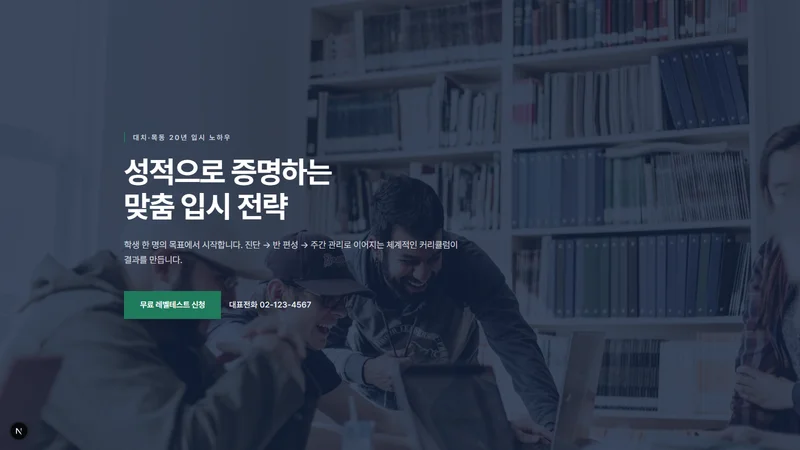
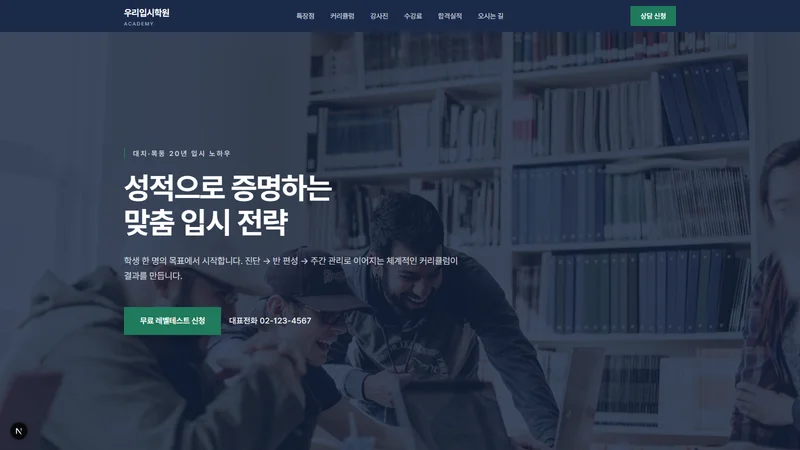
feat(template): academy-default 에 sticky 네비게이션 바 추가 (#109)
랜딩 페이지 기본인 상단 nav 가 빠져 있어 추가. componentKey 'nav'
(deriveNav 로 navItems 주입되는 renderSingleSite 규약) 클라이언트 컴포넌트.

- Navigation.tsx + Navigation.meta.ts, library 에 nav 로 등록(첫 섹션)
- 콘텐츠 6개 섹션 nav.visible=true (특장점/커리큘럼/강사진/수강료/합격실적/오시는 길)
  → 앵커 메뉴로 노출. nav/hero/contact/footer 는 nav.visible=false
- hero min-h 를 calc(100dvh-4rem) 로 조정(4rem sticky nav 감안, gotcha 준수)
- 깨진 앵커 교정: hero/nav CTA #contact → #section-contact-001 (실제 래퍼 id)

verify 게이트 7단계 통과(schema-jsx 10파일), 썸네일 재캡처(네비 포함).

diff --git a/src/templates/academy/default/template.ts b/src/templates/academy/default/template.ts
@@ -14,6 +14,18 @@ const preset: TemplatePreset = {
     },
     "sections": [
       {
+        "id": "nav-001",
+        "type": "nav",
+        "visible": true,
+        "nav": { "visible": false, "label": "네비게이션" },
+        "fields": {
+          "brandName": { "value": "우리입시학원", "type": "text", "label": "학원 이름", "editable": true },
+          "brandSubtext": { "value": "ACADEMY", "type": "text", "label": "보조 텍스트", "editable": true },
+          "ctaText": { "value": "상담 신청", "type": "text", "label": "CTA 문구", "editable": true },
+          "ctaUrl": { "value": "#section-contact-001", "type": "url", "label": "CTA 링크", "editable": true }
+        }
+      },
+      {
         "id": "hero-001",
         "type": "hero",
         "visible": true,
@@ -23,7 +35,7 @@ const preset: TemplatePreset = {
           "title": { "value": "성적으로 증명하는\n맞춤 입시 전략", "type": "textarea", "label": "메인 슬로건", "editable": true },
           "subtitle": { "value": "학생 한 명의 목표에서 시작합니다. 진단 → 반 편성 → 주간 관리로 이어지는 체계적인 커리큘럼이 결과를 만듭니다.", "type": "textarea", "label": "보조 설명", "editable": true },
           "ctaText": { "value": "무료 레벨테스트 신청", "type": "text", "label": "상담 버튼 문구", "editable": true },
-          "ctaUrl": { "value": "#contact", "type": "url", "label": "상담 버튼 링크", "editable": true },
+          "ctaUrl": { "value": "#section-contact-001", "type": "url", "label": "상담 버튼 링크", "editable": true },
           "phoneText": { "value": "대표전화 02-123-4567", "type": "text", "label": "전화 안내 문구", "editable": true },
           "backgroundImage": { "value": "https://images.unsplash.com/photo-1523240795612-9a054b0db644?auto=format&fit=crop&w=1600&q=80", "type": "image", "label": "배경 이미지", "editable": true }
         }
@@ -32,7 +44,7 @@ const preset: TemplatePreset = {
         "id": "features-001",
         "type": "features",
         "visible": true,
-        "nav": { "visible": false, "label": "특장점" },
+        "nav": { "visible": true, "label": "특장점" },
         "fields": {
           "eyebrow": { "value": "WHY US", "type": "text", "label": "상단 라벨", "editable": true },
           "title": { "value": "우리 학원만의 강점", "type": "text", "label": "섹션 제목", "editable": true },
@@ -52,7 +64,7 @@ const preset: TemplatePreset = {
         "id": "curriculum-001",
         "type": "curriculum",
         "visible": true,
-        "nav": { "visible": false, "label": "커리큘럼" },
+        "nav": { "visible": true, "label": "커리큘럼" },
         "fields": {
           "eyebrow": { "value": "CURRICULUM", "type": "text", "label": "상단 라벨", "editable": true },
           "title": { "value": "커리큘럼 · 반 편성", "type": "text", "label": "섹션 제목", "editable": true },
@@ -72,7 +84,7 @@ const preset: TemplatePreset = {
         "id": "teachers-001",
         "type": "teachers",
         "visible": true,
-        "nav": { "visible": false, "label": "강사진" },
+        "nav": { "visible": true, "label": "강사진" },
         "fields": {
           "eyebrow": { "value": "TEACHERS", "type": "text", "label": "상단 라벨", "editable": true },
           "title": { "value": "검증된 강사진", "type": "text", "label": "섹션 제목", "editable": true },
@@ -92,7 +104,7 @@ const preset: TemplatePreset = {
         "id": "tuition-001",
         "type": "tuition",
         "visible": true,
-        "nav": { "visible": false, "label": "수강료" },
+        "nav": { "visible": true, "label": "수강료" },
         "fields": {
           "eyebrow": { "value": "TUITION", "type": "text", "label": "상단 라벨", "editable": true },
           "title": { "value": "시간표 · 수강료", "type": "text", "label": "섹션 제목", "editable": true },
@@ -112,7 +124,7 @@ const preset: TemplatePreset = {
         "id": "results-001",
         "type": "results",
         "visible": true,
-        "nav": { "visible": false, "label": "합격실적" },
+        "nav": { "visible": true, "label": "합격실적" },
         "fields": {
           "eyebrow": { "value": "RESULTS", "type": "text", "label": "상단 라벨", "editable": true },
           "title": { "value": "숫자로 보는 합격 실적", "type": "text", "label": "섹션 제목", "editable": true },
@@ -145,7 +157,7 @@ const preset: TemplatePreset = {
         "id": "location-001",
         "type": "location",
         "visible": true,
-        "nav": { "visible": false, "label": "오시는길" },
+        "nav": { "visible": true, "label": "오시는 길" },
         "fields": {
           "eyebrow": { "value": "LOCATION", "type": "text", "label": "상단 라벨", "editable": true },
           "title": { "value": "오시는 길", "type": "text", "label": "섹션 제목", "editable": true },

diff --git a/src/templates/academy/default/library/Navigation.tsx b/src/templates/academy/default/library/Navigation.tsx
@@ -1,0 +1,114 @@
+'use client';
+
+import { useState, useEffect } from 'react';
+import { TemplateSectionProps, SectionComponent, NavSectionProps } from '../../../types';
+import { getFieldValue } from '@/domain/entities/template.entity';
+
+/**
+ * Sticky top nav. `navItems` is projected by the renderer (deriveNav) from the
+ * sections whose `nav.visible` is true — this component just renders the anchors.
+ */
+const Navigation: SectionComponent = function Navigation(props: TemplateSectionProps) {
+  const { section } = props;
+  const { navItems } = props as NavSectionProps;
+  const { fields } = section;
+  const brandName = getFieldValue(fields, 'brandName') || '';
+  const brandSubtext = getFieldValue(fields, 'brandSubtext') || '';
+  const ctaText = getFieldValue(fields, 'ctaText') || '';
+  const ctaUrl = getFieldValue(fields, 'ctaUrl') || '#';
+
+  const [scrolled, setScrolled] = useState(false);
+  const [mobOpen, setMobOpen] = useState(false);
+
+  useEffect(() => {
+    const onScroll = () => setScrolled(window.scrollY > 24);
+    window.addEventListener('scroll', onScroll, { passive: true });
+    return () => window.removeEventListener('scroll', onScroll);
+  }, []);
+
+  return (
+    <nav
+      className={`sticky top-0 z-50 h-16 border-b bg-[var(--color-primary)] transition-shadow ${
+        scrolled ? 'border-[var(--color-on-dark)]/15 shadow-lg' : 'border-transparent'
+      }`}
+    >
+      <div className="mx-auto flex h-full max-w-6xl items-center justify-between px-6">
+        {/* Brand */}
+        <a href="#" className="flex flex-col leading-none no-underline">
+          <span className="text-lg font-bold tracking-tight text-[var(--color-on-primary)]">{brandName}</span>
+          {brandSubtext && (
+            <span className="mt-0.5 text-[10px] font-medium tracking-[0.18em] text-[var(--color-on-dark)]/60">
+              {brandSubtext}
+            </span>
+          )}
+        </a>
+
+        {/* Desktop links */}
+        <div className="hidden items-center gap-8 lg:flex">
+          {navItems.map((item, i) => (
+            <a
+              key={i}
+              href={item.href}
+              className="text-sm font-medium text-[var(--color-on-dark)]/80 no-underline transition-colors hover:text-[var(--color-on-primary)]"
+            >
+              {item.label}
+            </a>
+          ))}
+        </div>
+
+        {/* CTA + mobile toggle */}
+        <div className="flex items-center gap-3">
+          {ctaText && (
+            <a
+              href={ctaUrl}
+              className="hidden bg-[var(--color-secondary)] px-5 py-2.5 text-sm font-semibold text-[var(--color-on-primary)] no-underline transition-all hover:brightness-110 sm:inline-flex"
+            >
+              {ctaText}
+            </a>
+          )}
+          <button
+            type="button"
+            aria-label="메뉴"
+            className="cursor-pointer border-0 bg-transparent p-2 text-[var(--color-on-primary)] lg:hidden"
+            onClick={() => setMobOpen(!mobOpen)}
+          >
+            <span className="block h-0.5 w-5 bg-current" />
+            <span className="mt-1 block h-0.5 w-5 bg-current" />
+            <span className="mt-1 block h-0.5 w-5 bg-current" />
+          </button>
+        </div>
+      </div>
+
+      {/* Mobile menu */}
+      <div
+        className={`overflow-hidden bg-[var(--color-primary)] transition-all duration-300 lg:hidden ${
+          mobOpen ? 'max-h-96 border-t border-[var(--color-on-dark)]/15' : 'max-h-0'
+        }`}
+      >
+        <div className="space-y-1 px-6 py-4">
+          {navItems.map((item, i) => (
+            <a
+              key={i}
+              href={item.href}
+              className="block py-2 text-[15px] font-medium text-[var(--color-on-dark)]/85 no-underline"
+              onClick={() => setMobOpen(false)}
+            >
+              {item.label}
+            </a>
+          ))}
+          {ctaText && (
+            <a
+              href={ctaUrl}
+              onClick={() => setMobOpen(false)}
+              className="mt-2 block bg-[var(--color-secondary)] px-5 py-3 text-center text-sm font-semibold text-[var(--color-on-primary)] no-underline"
+            >
+              {ctaText}
+            </a>
+          )}
+        </div>
+      </div>
+    </nav>
+  );
+};
+
+export default Navigation;

diff --git a/src/templates/academy/default/library/index.ts b/src/templates/academy/default/library/index.ts
@@ -1,4 +1,6 @@
 import { TemplateLibrary, libEntry } from '../../../types';
+import Navigation from './Navigation';
+import { navigationMeta } from './Navigation.meta';
 import Hero from './Hero';
 import Features from './Features';
 import Curriculum from './Curriculum';
@@ -11,6 +13,7 @@ import Location from './Location';
 import Footer from './Footer';
 
 export const academyDefaultLibrary: TemplateLibrary = {
+  nav: libEntry(Navigation, navigationMeta),
   hero: libEntry(Hero),
   features: libEntry(Features),
   curriculum: libEntry(Curriculum),

diff --git a/src/templates/academy/default/library/Hero.tsx b/src/templates/academy/default/library/Hero.tsx
@@ -13,7 +13,7 @@ const Hero: SectionComponent = function Hero({ section }: TemplateSectionProps) 
 
   return (
     <section
-      className="relative flex min-h-[100dvh] items-center overflow-hidden bg-[var(--color-primary)]"
+      className="relative flex min-h-[calc(100dvh-4rem)] items-center overflow-hidden bg-[var(--color-primary)]"
       style={bgImage ? { backgroundImage: `url(${bgImage})`, backgroundSize: 'cover', backgroundPosition: 'center' } : undefined}
     >
       {/* Deep-navy scrim keeps text legible over any photo. */}

diff --git a/src/templates/academy/default/library/Navigation.meta.ts b/src/templates/academy/default/library/Navigation.meta.ts
@@ -1,0 +1,14 @@
+import { SectionComponentMeta } from '../../../types';
+
+export const navigationMeta: SectionComponentMeta = {
+  componentKey: 'nav',
+  category: 'navigation',
+  label: '네비게이션',
+  fieldsSchema: {
+    brandName: { type: 'text', label: '학원 이름', required: true },
+    brandSubtext: { type: 'text', label: '보조 텍스트' },
+    ctaText: { type: 'text', label: 'CTA 문구' },
+    ctaUrl: { type: 'url', label: 'CTA 링크' },
+  },
+  previewImage: '/component-previews/academy/nav.webp',
+};
